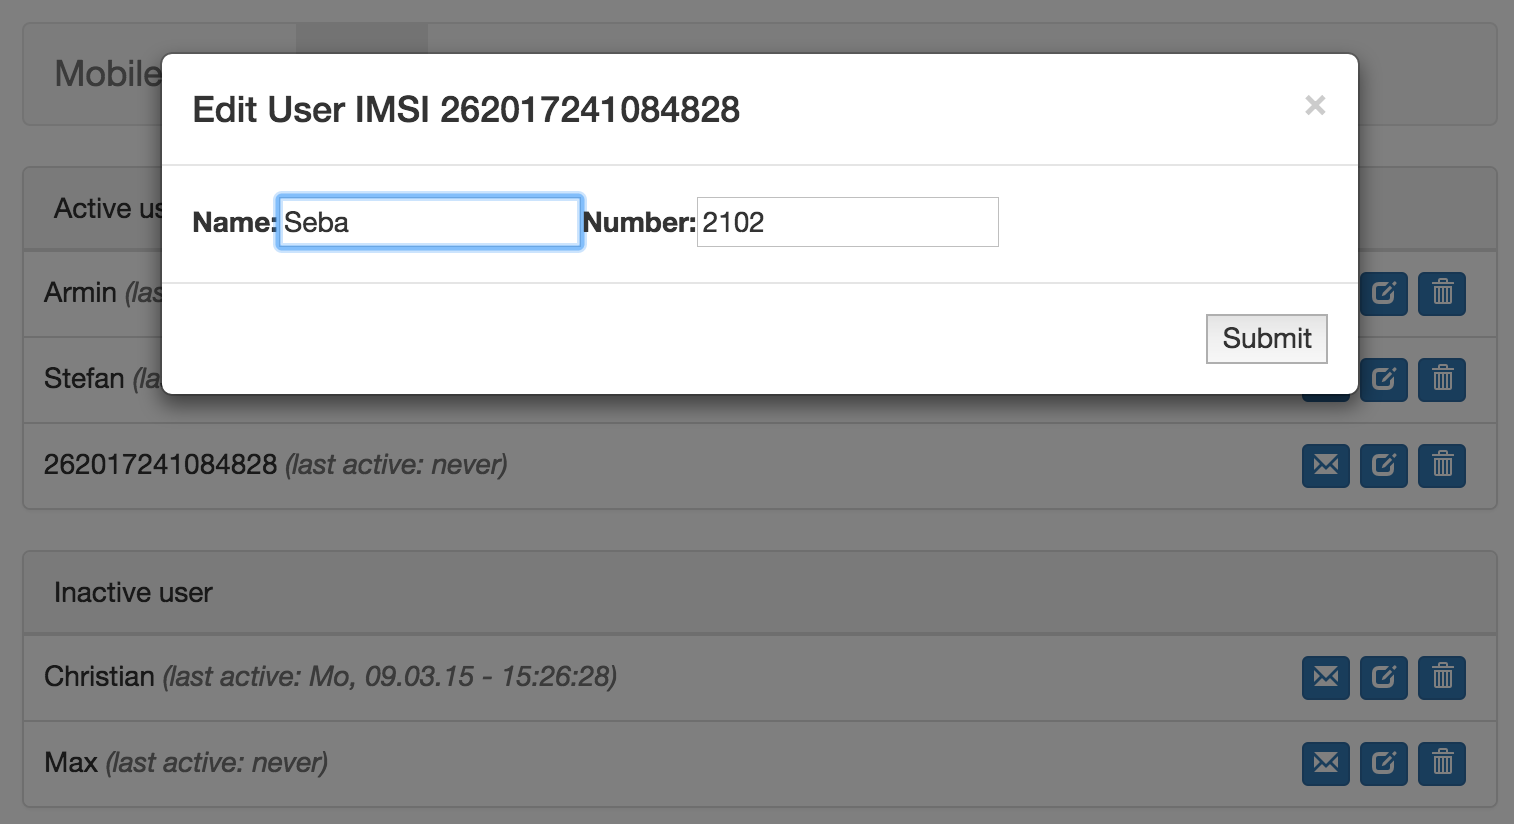
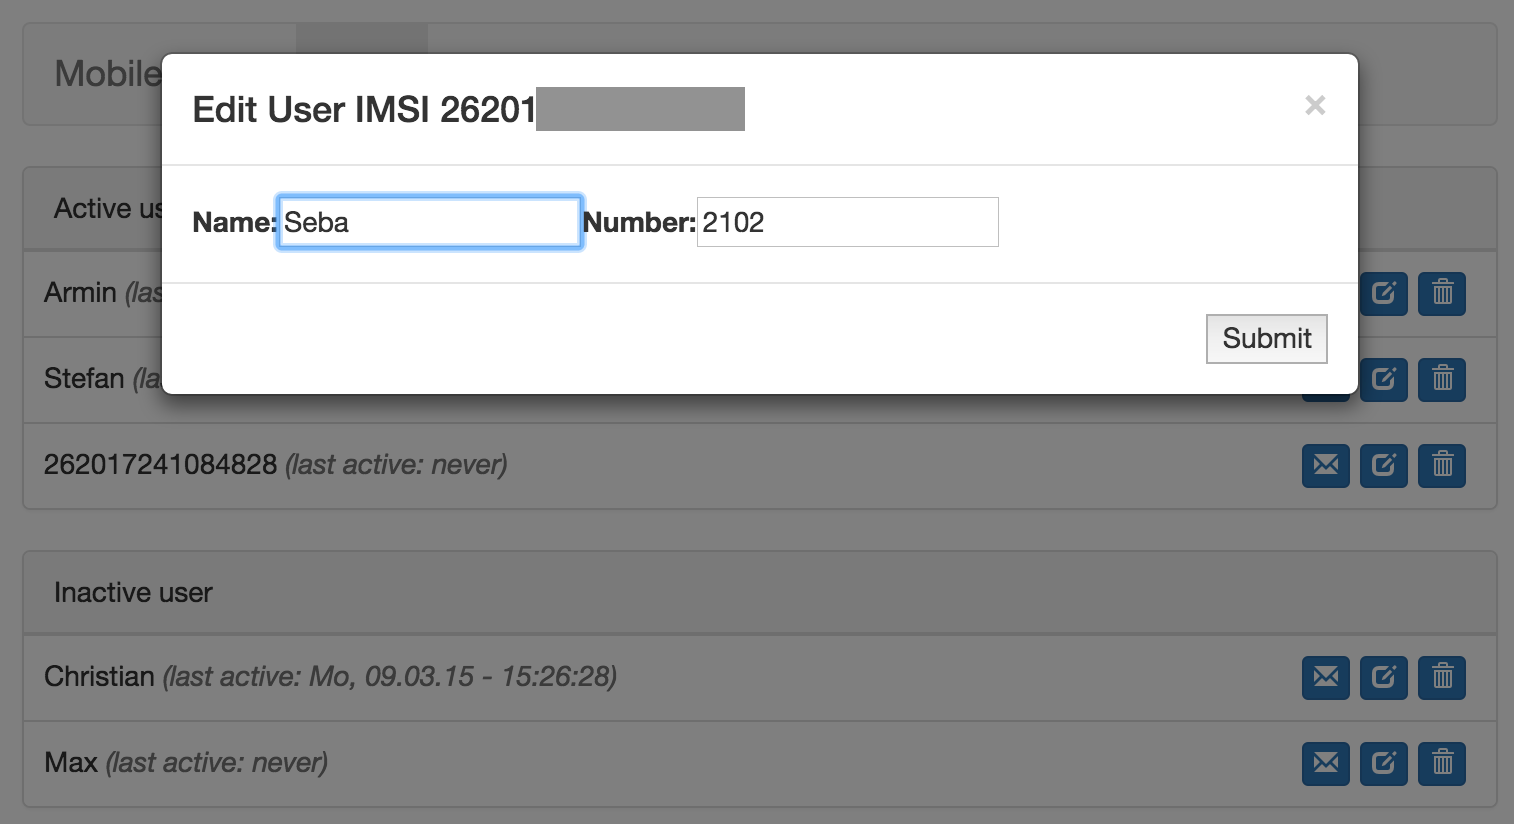
Extension.conf fix. Blurred IMSI

Changed region(s): [[0.3415, 0.091, 0.4967, 0.182]]

diff --git a/openbts.tex b/openbts.tex
@@ -59,13 +59,13 @@ Möchte man diese Basisstation professionell betreiben, sollte eine eigene \MNC 
 \subsubsection{Konfiguration von Asterisk}
 Asterisk ist für die Verarbeitung von eingehenden Daten (wie Anrufen, SMS, usw.) verantwortlich. Es vergibt auch Rufnummern an die bestimmten Netzwerkteilnehmer. Asterisk liefert eine SQLite-Datenbank mit, welche diese Daten beinhaltet. Zu Testzwecken wurde diese Datenbank zunächst manuell durch ein Skript befüllt. Dieses Skript ist in Anhang ?? zu finden. Für jede \IMSI wird ein Eintrag in die Tabelle ``sip\textunderscore buddies'' getätigt, wodurch diese IMSI dann im System als registriert gilt. Außerdem wird in die Tabelle ``dialdata\textunderscore table'' noch für jede registrierte IMSI eine Rufnummer vergeben, unter welcher diese dann im Netzwerk ansprechbar ist. Später wurde diese Aufgabe durch unsere Applikation übernommen. Die Datenbank ist unter \textit{/var/lib/asterisk/sqlite3dir/sqlite3.db} zu finden. \\
 Zuletzt muss in der Datei ``extensions.conf'' das Verhalten bei eingehenden Anrufen definiert werden. Dies kann anhand von Rufnummernmustern geschehen. Dabei werden bestimmten Rufnummern ein bestimmter Ablauf zu geordnet. Zu Testzwecken wurde der Nummer 222 eine ``Hello World''-Wiedergabe zugeordnet. Dafür wurde folgender Eintrag der \inlinecode{[phones]} Sektion hinzugefügt:
-\begin{tabbing}$
-exten => 222,\hspace{1cm} \= 1,Answer()\\
-\> same => n,Wait(4)\\
-\> same => n,Playback(hello-world)\\
-\> same => n,Wait(4)\\
-\> same => n,Hangup\\ $
-\end{tabbing}
+\begin{lstlisting}
+exten => 222,   1,Answer()
+                same => n,Wait(4)
+                same => n,Playback(hello-world)
+                same => n,Wait(4)
+                same => n,Hangup
+\end{lstlisting}
 
 \subsection{Inbetriebnahme}
 \label{sec:inbetriebnahme}
